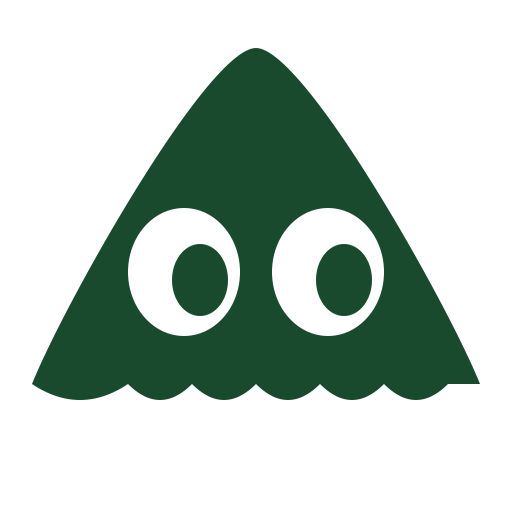
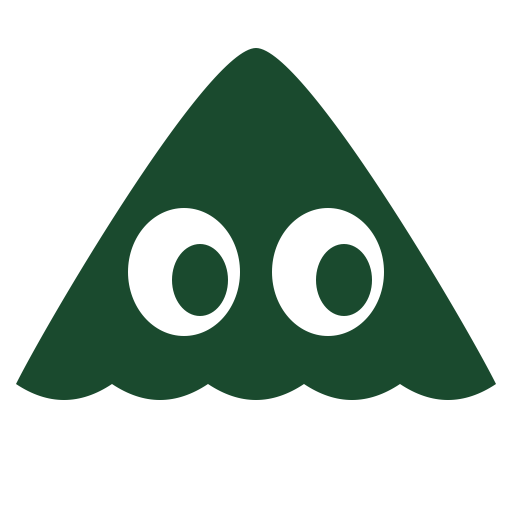
로고 하단 물결 좌우 대칭으로 수정

diff --git a/src/App.tsx b/src/App.tsx
@@ -157,7 +157,7 @@ function App() {
             <div className="title-row">
               <span className="title-logo" aria-hidden="true">
                 <svg viewBox="0 0 64 64">
-                  <path d="M32 6 C26 6 8 38 4 48 Q10 52 16 48 Q20 52 24 48 Q28 52 32 48 Q36 52 40 48 Q44 52 48 48 Q52 52 56 48 L60 48 C56 38 38 6 32 6Z" fill="#1a4a2e"/>
+                  <path d="M32 6 C26 6 6 40 2 48 Q8 52 14 48 Q20 52 26 48 Q32 52 38 48 Q44 52 50 48 Q56 52 62 48 C58 40 38 6 32 6Z" fill="#1a4a2e"/>
                   <ellipse cx="23" cy="34" rx="7" ry="8" fill="white"/>
                   <ellipse cx="41" cy="34" rx="7" ry="8" fill="white"/>
                   <ellipse cx="25" cy="35" rx="3.5" ry="4.5" fill="#1a4a2e"/>
